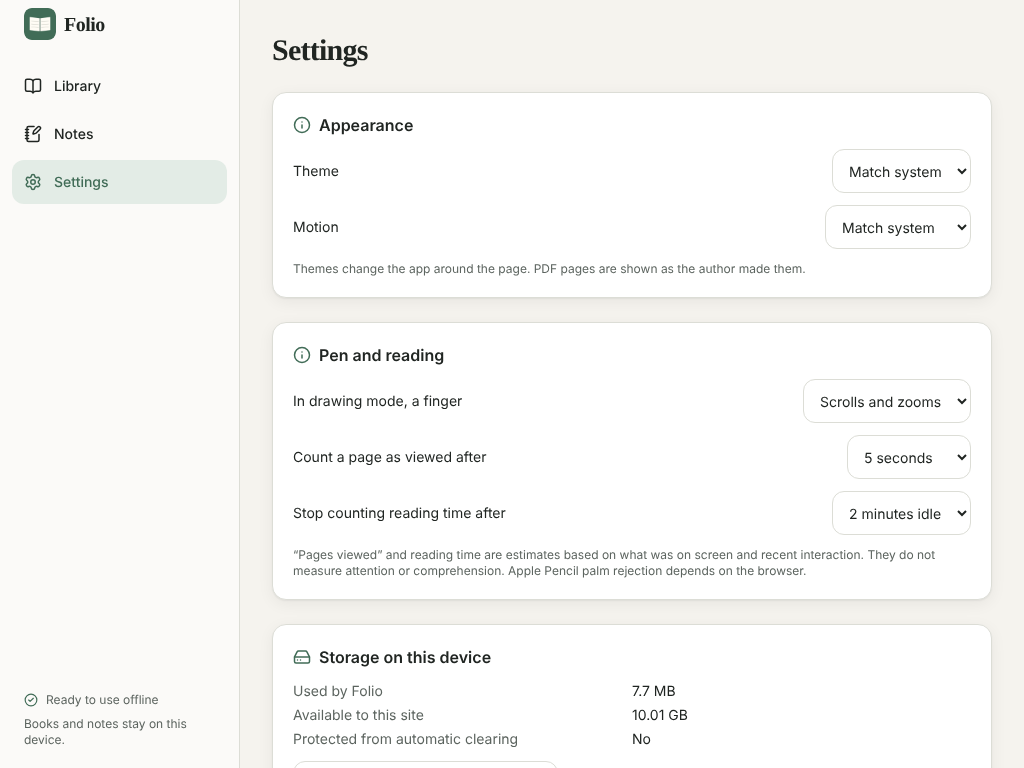
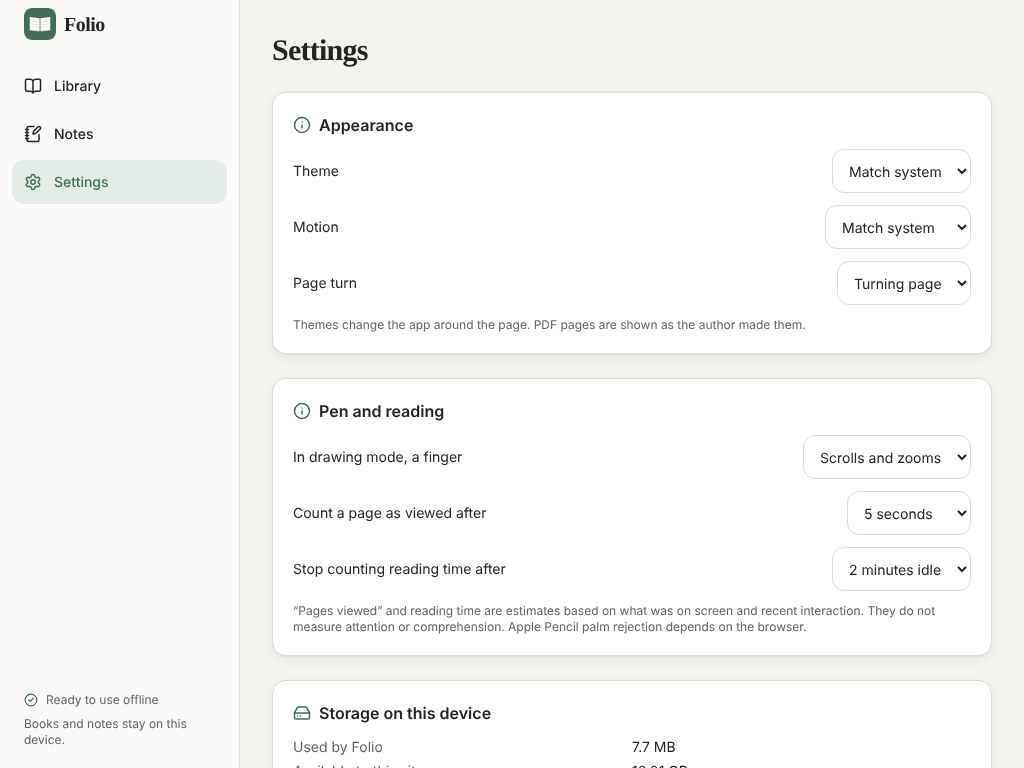
Turning-page animation for PDF and EPUB (RDR-06); fix prefetch reuse
- The outgoing page (or the right/left leaf of a spread) lifts around its spine
  edge with perspective, a sheen on the leaf and a shadow on the page beneath.
  The new page is already in place, so reading and input are never delayed.
- Settings: Page turn = Turning page | Slide. Reduced motion turns it off.
- Visible and prefetched pages now share one keyed array; before, React remounted
  the prefetched page on every turn and threw its canvas away.

Claude-Session: https://claude.ai/code/session_0139s15io7iUvSAccARD7DXG

diff --git a/src/features/reader/pageTurn.ts b/src/features/reader/pageTurn.ts
@@ -1,0 +1,95 @@
+/**
+ * Page-turn animation (RDR-06). A snapshot of the outgoing page is laid over the
+ * reader and lifted around its spine edge with perspective, a moving highlight on
+ * the leaf and a shadow cast on the page underneath. The new page is already in
+ * place below, so the turn never delays reading and input is never blocked.
+ * Callers skip it when the person or the system asks for reduced motion.
+ */
+export type PageTurnStyle = 'curl' | 'slide';
+
+const DURATION = 460;
+
+/**
+ * @param snapshot an element that paints the outgoing page at (0,0)-(rect.width, rect.height)
+ * @param rect where the outgoing page was on screen
+ * @param hinge which edge the leaf turns around ('left' for a forward turn in left-to-right books)
+ */
+export function playPageTurn(snapshot: HTMLElement, rect: DOMRect, hinge: 'left' | 'right'): void {
+  if (rect.width < 8 || rect.height < 8 || typeof snapshot.animate !== 'function') return;
+  const stage = document.createElement('div');
+  stage.setAttribute('aria-hidden', 'true');
+  stage.className = 'folio-turn-stage';
+  Object.assign(stage.style, {
+    left: `${rect.left}px`,
+    top: `${rect.top}px`,
+    width: `${rect.width}px`,
+    height: `${rect.height}px`,
+  });
+  const leaf = document.createElement('div');
+  leaf.className = 'folio-turn-leaf';
+  leaf.style.transformOrigin = `${hinge} center`;
+  snapshot.style.position = 'absolute';
+  snapshot.style.inset = '0';
+  const sheen = document.createElement('div');
+  sheen.className = 'folio-turn-sheen';
+  sheen.style.background =
+    hinge === 'left'
+      ? 'linear-gradient(to left, rgba(0,0,0,0.28), rgba(0,0,0,0.04) 35%, rgba(255,255,255,0.10) 70%, rgba(0,0,0,0.12))'
+      : 'linear-gradient(to right, rgba(0,0,0,0.28), rgba(0,0,0,0.04) 35%, rgba(255,255,255,0.10) 70%, rgba(0,0,0,0.12))';
+  const cast = document.createElement('div');
+  cast.className = 'folio-turn-cast';
+  cast.style.background = `linear-gradient(to ${hinge}, rgba(0,0,0,0) 0%, rgba(0,0,0,0.22) 100%)`;
+  leaf.append(snapshot, sheen);
+  stage.append(cast, leaf);
+  document.body.append(stage);
+
+  const sign = hinge === 'left' ? -1 : 1;
+  const easing = 'cubic-bezier(0.45, 0.05, 0.35, 1)';
+  const anims = [
+    leaf.animate(
+      [
+        { transform: 'rotateY(0deg) translateZ(0)', filter: 'brightness(1)' },
+        { transform: `rotateY(${sign * 35}deg) translateZ(18px)`, filter: 'brightness(1.03)', offset: 0.35 },
+        { transform: `rotateY(${sign * 96}deg) translateZ(0)`, filter: 'brightness(0.82)' },
+      ],
+      { duration: DURATION, easing, fill: 'forwards' },
+    ),
+    sheen.animate([{ opacity: 0 }, { opacity: 1, offset: 0.4 }, { opacity: 1 }], { duration: DURATION, easing, fill: 'forwards' }),
+    cast.animate([{ opacity: 0.9 }, { opacity: 0.5, offset: 0.5 }, { opacity: 0 }], { duration: DURATION, easing, fill: 'forwards' }),
+  ];
+  const done = () => stage.remove();
+  void anims[0]!.finished.then(done, done);
+  // Safety net if the animation is interrupted (tab hidden, element detached).
+  setTimeout(done, DURATION + 400);
+}
+
+/** Copy the canvases inside `page` into a snapshot positioned relative to `origin`. */
+export function snapshotCanvases(page: HTMLElement, pageRect: DOMRect, origin: DOMRect): HTMLElement | null {
+  const box = document.createElement('div');
+  let painted = false;
+  for (const c of page.querySelectorAll('canvas')) {
+    if (!c.width || !c.height) continue;
+    const copy = document.createElement('canvas');
+    copy.width = c.width;
+    copy.height = c.height;
+    const ctx = copy.getContext('2d');
+    if (!ctx) continue;
+    try {
+      ctx.drawImage(c, 0, 0);
+    } catch {
+      continue;
+    }
+    painted = true;
+    Object.assign(copy.style, {
+      position: 'absolute',
+      left: `${pageRect.left - origin.left}px`,
+      top: `${pageRect.top - origin.top}px`,
+      width: `${pageRect.width}px`,
+      height: `${pageRect.height}px`,
+    });
+    box.append(copy);
+  }
+  if (!painted) return null;
+  box.style.background = '#fff';
+  return box;
+}

diff --git a/src/features/reader/ReaderView.tsx b/src/features/reader/ReaderView.tsx
@@ -7,6 +7,7 @@ import { spreadFor, useReader, type ReaderStore } from './readerStore';
 import type { BookInk } from '../ink/useBookInk';
 import { ProgressRepository } from '../../core/storage/progressRepository';
 import type { PdfLocation } from '../../core/storage/types';
+import { playPageTurn, snapshotCanvases, type PageTurnStyle } from './pageTurn';
 
 export interface Visibility {
   /** page index -> { visible css px², page area, viewport area } */
@@ -24,6 +25,7 @@ export function ReaderView({
   ink,
   fingerDraws,
   reducedMotion,
+  turnStyle,
   visibilityRef,
   onToggleChrome,
 }: {
@@ -33,6 +35,7 @@ export function ReaderView({
   ink: BookInk;
   fingerDraws: boolean;
   reducedMotion: boolean;
+  turnStyle: PageTurnStyle;
   visibilityRef: React.MutableRefObject<Visibility>;
   onToggleChrome: () => void;
 }) {
@@ -308,9 +311,36 @@ export function ReaderView({
     const el = turnRow.current;
     if (!el || reducedMotion || typeof el.animate !== 'function') return;
     const st = store.getState();
-    const from = (st.turnDir === 1) !== (st.direction === 'rtl') ? 14 : -14;
+    const leftward = (st.turnDir === 1) !== (st.direction === 'rtl'); // the leaf travels to the left
+    const prev = lastShot.current;
+    const newSpread = spreadKey.split('-').map(Number);
+    const adjacent = prev && prev.pages.length > 0 && Math.abs(prev.pages[0]!.idx - newSpread[0]!) <= 2;
+    if (turnStyle === 'curl' && prev && adjacent) {
+      // Forward in a left-to-right book: the right-hand outgoing page lifts around its left edge.
+      const ordered = [...prev.pages].sort((a, b) => a.rect.left - b.rect.left);
+      const leaf = leftward ? ordered[ordered.length - 1]! : ordered[0]!;
+      const pageEl = el.querySelector<HTMLElement>(`[data-page-index="${leaf.idx}"]`);
+      const snap = pageEl && snapshotCanvases(pageEl, leaf.rect, leaf.rect);
+      if (snap) {
+        playPageTurn(snap, leaf.rect, leftward ? 'left' : 'right');
+        return;
+      }
+    }
+    const from = leftward ? 14 : -14;
     el.animate([{ opacity: 0.35, transform: `translateX(${from}px)` }, { opacity: 1, transform: 'none' }], { duration: 180, easing: 'ease-out' });
-  }, [spreadKey, reducedMotion, store]);
+  }, [spreadKey, reducedMotion, store, turnStyle]);
+  // Remember where the visible pages were after every commit, for the next turn's snapshot.
+  const lastShot = useRef<{ pages: { idx: number; rect: DOMRect }[] } | null>(null);
+  useLayoutEffect(() => {
+    const row = turnRow.current;
+    if (!row) {
+      lastShot.current = null;
+      return;
+    }
+    const pages: { idx: number; rect: DOMRect }[] = [];
+    for (const p of row.querySelectorAll<HTMLElement>('[data-page-index]:not(.folio-prefetch)')) pages.push({ idx: Number(p.dataset.pageIndex), rect: p.getBoundingClientRect() });
+    lastShot.current = { pages };
+  });
   // Pages stay mounted across turns now, so re-select which ones count as on screen.
   useEffect(() => reobserve.current?.(), [spreadKey]);
 
@@ -375,12 +405,10 @@ export function ReaderView({
             if (e.target === e.currentTarget && s.tool === 'read') onToggleChrome();
           }}
         >
-          {ordered.map((i) => (
-            <PageView key={i} {...pageProps(i, true, true)} />
-          ))}
-          {prefetch.map((i) => (
-            <PageView key={i} {...pageProps(i, true, false)} className="folio-prefetch" />
-          ))}
+          {/* One array, so React matches pages by key when a prefetched page becomes visible. */}
+          {[...ordered.map((i) => [i, true] as const), ...prefetch.map((i) => [i, false] as const)].map(([i, shown]) =>
+            shown ? <PageView key={i} {...pageProps(i, true, true)} /> : <PageView key={i} {...pageProps(i, true, false)} className="folio-prefetch" />,
+          )}
         </div>
       </div>
     );

diff --git a/src/features/epub/EpubReader.tsx b/src/features/epub/EpubReader.tsx
@@ -35,6 +35,7 @@ import { useReadingTracking } from '../reader/useReadingTracking';
 import type { Visibility } from '../reader/ReaderView';
 import { downloadOriginal } from '../export/bookActions';
 import { storedBlob } from '../../core/storage/types';
+import { playPageTurn } from '../reader/pageTurn';
 
 type LoadState =
   | { kind: 'loading' }
@@ -276,24 +277,67 @@ function ReadyEpub({
     },
     [land, n, store],
   );
+  // Turning-page motion: snapshot the visible page(s) and lift the leaf over the new page.
+  const curl = paged && !reducedMotion && settings.pageTurn === 'curl';
+  const turnLeaf = useCallback(
+    (forward: boolean) => {
+      const v = view.current;
+      if (!curl || !v) return;
+      const r = v.getBoundingClientRect();
+      const leftward = forward !== rtl;
+      let rect = r;
+      let shift = 0;
+      if (twoUp) {
+        const half = r.width / 2;
+        rect = new DOMRect(leftward ? r.left + half : r.left, r.top, half, r.height);
+        shift = leftward ? -half : 0;
+      }
+      const wrap = document.createElement('div');
+      wrap.style.overflow = 'hidden';
+      const bgHost = v.closest<HTMLElement>('[data-testid="epub-reader"]') ?? v;
+      wrap.style.background = getComputedStyle(bgHost).backgroundColor;
+      const clone = v.cloneNode(true) as HTMLElement;
+      for (const el of [clone, ...clone.querySelectorAll<HTMLElement>('[id], [data-testid]')]) {
+        el.removeAttribute('id');
+        el.removeAttribute('data-testid');
+      }
+      Object.assign(clone.style, { position: 'absolute', left: `${shift}px`, top: '0', width: `${r.width}px`, height: `${r.height}px`, margin: '0' });
+      wrap.append(clone);
+      playPageTurn(wrap, rect, leftward ? 'left' : 'right');
+    },
+    [curl, rtl, twoUp],
+  );
+
   const next = useCallback(() => {
-    if (paged && pageRef.current < pageCountRef.current - 1) setPage((p) => p + 1);
-    else if (paged) goChapter(spine + 1);
-    else {
+    if (paged && pageRef.current < pageCountRef.current - 1) {
+      turnLeaf(true);
+      setPage((p) => p + 1);
+    } else if (paged) {
+      if (spine + 1 < n) {
+        turnLeaf(true);
+        goChapter(spine + 1);
+      }
+    } else {
       const v = view.current!;
       if (v.scrollTop + v.clientHeight >= v.scrollHeight - 4) goChapter(spine + 1);
       else v.scrollTop = Math.min(v.scrollHeight - v.clientHeight, v.scrollTop + v.clientHeight * 0.9);
     }
-  }, [goChapter, paged, spine]);
+  }, [goChapter, paged, spine, n, turnLeaf]);
   const prev = useCallback(() => {
-    if (paged && pageRef.current > 0) setPage((p) => p - 1);
-    else if (paged) goChapter(spine - 1, { last: true });
-    else {
+    if (paged && pageRef.current > 0) {
+      turnLeaf(false);
+      setPage((p) => p - 1);
+    } else if (paged) {
+      if (spine > 0) {
+        turnLeaf(false);
+        goChapter(spine - 1, { last: true });
+      }
+    } else {
       const v = view.current!;
       if (v.scrollTop <= 4) goChapter(spine - 1, { last: true });
       else v.scrollTop = Math.max(0, v.scrollTop - v.clientHeight * 0.9);
     }
-  }, [goChapter, paged, spine]);
+  }, [goChapter, paged, spine, turnLeaf]);
 
   // External navigation requests (study pane, notebook links) arrive through the store.
   const lastNav = useRef(nav?.seq ?? 0);
@@ -535,7 +579,7 @@ function ReadyEpub({
             lang={handle.book.meta.language || undefined}
             dir={rtl ? 'rtl' : undefined}
             data-testid="epub-content"
-            className={cx('epub-content', typo.justify && 'epub-justify', !reducedMotion && paged && 'epub-turn')}
+            className={cx('epub-content', typo.justify && 'epub-justify', !reducedMotion && paged && !curl && 'epub-turn')}
             onClick={onContentClick}
             onKeyDown={onKeyActivate}
             style={{

diff --git a/tests/e2e/reader.spec.ts b/tests/e2e/reader.spec.ts
@@ -166,4 +166,21 @@ test.describe('reader (RDR-01..03, RDR-05, PRG-01)', () => {
     await swipe(mid - 120, mid + 120);
     await expect(page.getByTestId('page-indicator')).toContainText('1 / 12');
   });
+  test('page turn reuses the prefetched canvas and plays the turning-page motion (D18, RDR-06)', async ({ page }) => {
+    await page.emulateMedia({ reducedMotion: 'no-preference' });
+    await open(page, 'text-12p.pdf', /Open Folio Sample Text/);
+    const next = page.locator('[data-page-index="1"].folio-prefetch canvas.page-canvas');
+    await expect(next).toHaveCount(1);
+    await next.evaluate((c) => ((c as HTMLCanvasElement & { __mark?: number }).__mark = 42));
+    await page.keyboard.press('ArrowRight');
+    await expect(page.locator('.folio-turn-stage')).toHaveCount(1);
+    const shown = page.locator('[data-page-index="1"]:not(.folio-prefetch) canvas.page-canvas');
+    expect(await shown.evaluate((c) => (c as HTMLCanvasElement & { __mark?: number }).__mark)).toBe(42);
+    await expect(page.locator('.folio-turn-stage')).toHaveCount(0);
+    // Reduced motion: no turning page.
+    await page.emulateMedia({ reducedMotion: 'reduce' });
+    await page.keyboard.press('ArrowRight');
+    await expect(page.getByTestId('page-indicator')).toContainText('3 / 12');
+    expect(await page.locator('.folio-turn-stage').count()).toBe(0);
+  });
 });

diff --git a/src/core/storage/settingsValues.ts b/src/core/storage/settingsValues.ts
@@ -4,6 +4,8 @@ export type FingerMode = 'navigate' | 'draw';
 export interface AppSettings {
   theme: ThemePref;
   reducedMotion: 'system' | 'reduce' | 'allow';
+  /** Page-turn motion when motion is allowed. */
+  pageTurn: 'curl' | 'slide';
   /** In drawing mode: does a finger draw or navigate? Pen always draws. */
   fingerInDrawMode: FingerMode;
   /** Seconds of continuous >=50% visibility before a page qualifies as viewed. */
@@ -45,6 +47,7 @@ export function normaliseTypography(v: unknown): EpubTypography {
 export const DEFAULT_SETTINGS: AppSettings = {
   theme: 'system',
   reducedMotion: 'system',
+  pageTurn: 'curl',
   fingerInDrawMode: 'navigate',
   qualifySeconds: 5,
   idleSeconds: 120,
@@ -71,6 +74,8 @@ export function sanitiseSetting(key: string, v: unknown): unknown {
       return THEMES.includes(v as ThemePref) ? v : undefined;
     case 'reducedMotion':
       return MOTION.includes(v as AppSettings['reducedMotion']) ? v : undefined;
+    case 'pageTurn':
+      return v === 'curl' || v === 'slide' ? v : undefined;
     case 'fingerInDrawMode':
       return FINGER.includes(v as FingerMode) ? v : undefined;
     case 'qualifySeconds':

diff --git a/src/features/settings/SettingsPage.tsx b/src/features/settings/SettingsPage.tsx
@@ -89,6 +89,7 @@ export function SettingsPage() {
       <Section title="Appearance" icon={<Info size={18} />}>
         <Select k="theme" label="Theme" options={[['system', 'Match system'], ['light', 'Light'], ['sepia', 'Sepia'], ['dark', 'Dark']]} />
         <Select k="reducedMotion" label="Motion" options={[['system', 'Match system'], ['reduce', 'Reduce motion'], ['allow', 'Allow motion']]} />
+        <Select k="pageTurn" label="Page turn" options={[['curl', 'Turning page'], ['slide', 'Slide']]} />
         <p className="text-xs text-muted">Themes change the app around the page. PDF pages are shown as the author made them.</p>
       </Section>
 

diff --git a/src/index.css b/src/index.css
@@ -413,3 +413,25 @@ dialog {
   visibility: hidden;
   pointer-events: none;
 }
+
+/* Page turn (RDR-06): see src/features/reader/pageTurn.ts */
+.folio-turn-stage {
+  position: fixed;
+  z-index: 15;
+  pointer-events: none;
+  perspective: 1800px;
+}
+.folio-turn-leaf {
+  position: absolute;
+  inset: 0;
+  transform-style: preserve-3d;
+  backface-visibility: hidden;
+  box-shadow: 0 6px 24px rgba(0, 0, 0, 0.18);
+  overflow: hidden;
+}
+.folio-turn-sheen,
+.folio-turn-cast {
+  position: absolute;
+  inset: 0;
+  pointer-events: none;
+}

diff --git a/src/features/reader/ReaderScreen.tsx b/src/features/reader/ReaderScreen.tsx
@@ -340,6 +340,7 @@ function ReadyReader({
           ink={ink}
           fingerDraws={settings.fingerInDrawMode === 'draw'}
           reducedMotion={reducedMotion}
+          turnStyle={settings.pageTurn}
           visibilityRef={visibilityRef}
           onToggleChrome={() => store.getState().set({ chrome: !store.getState().chrome })}
         />
